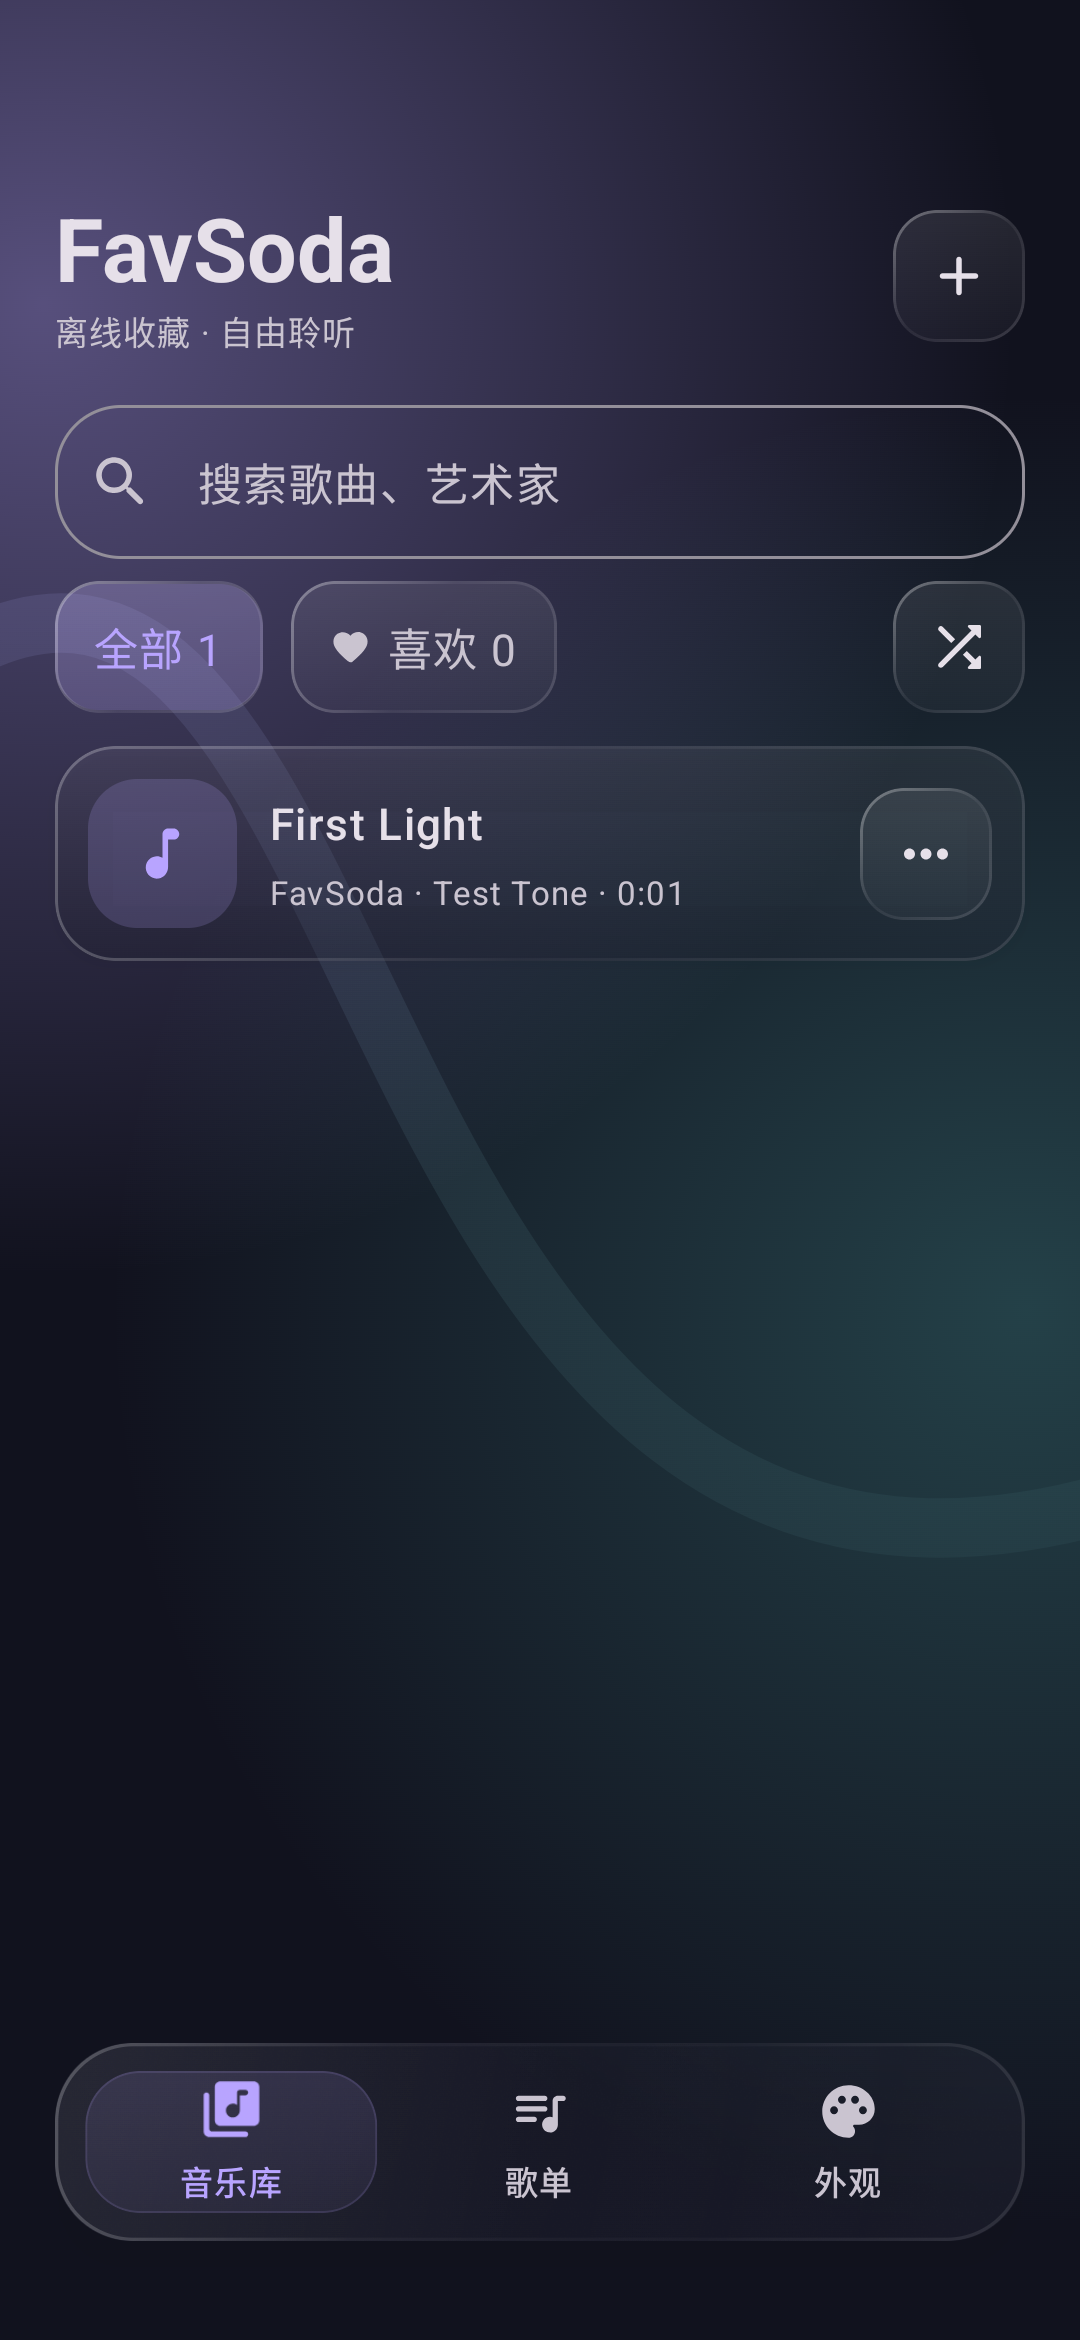
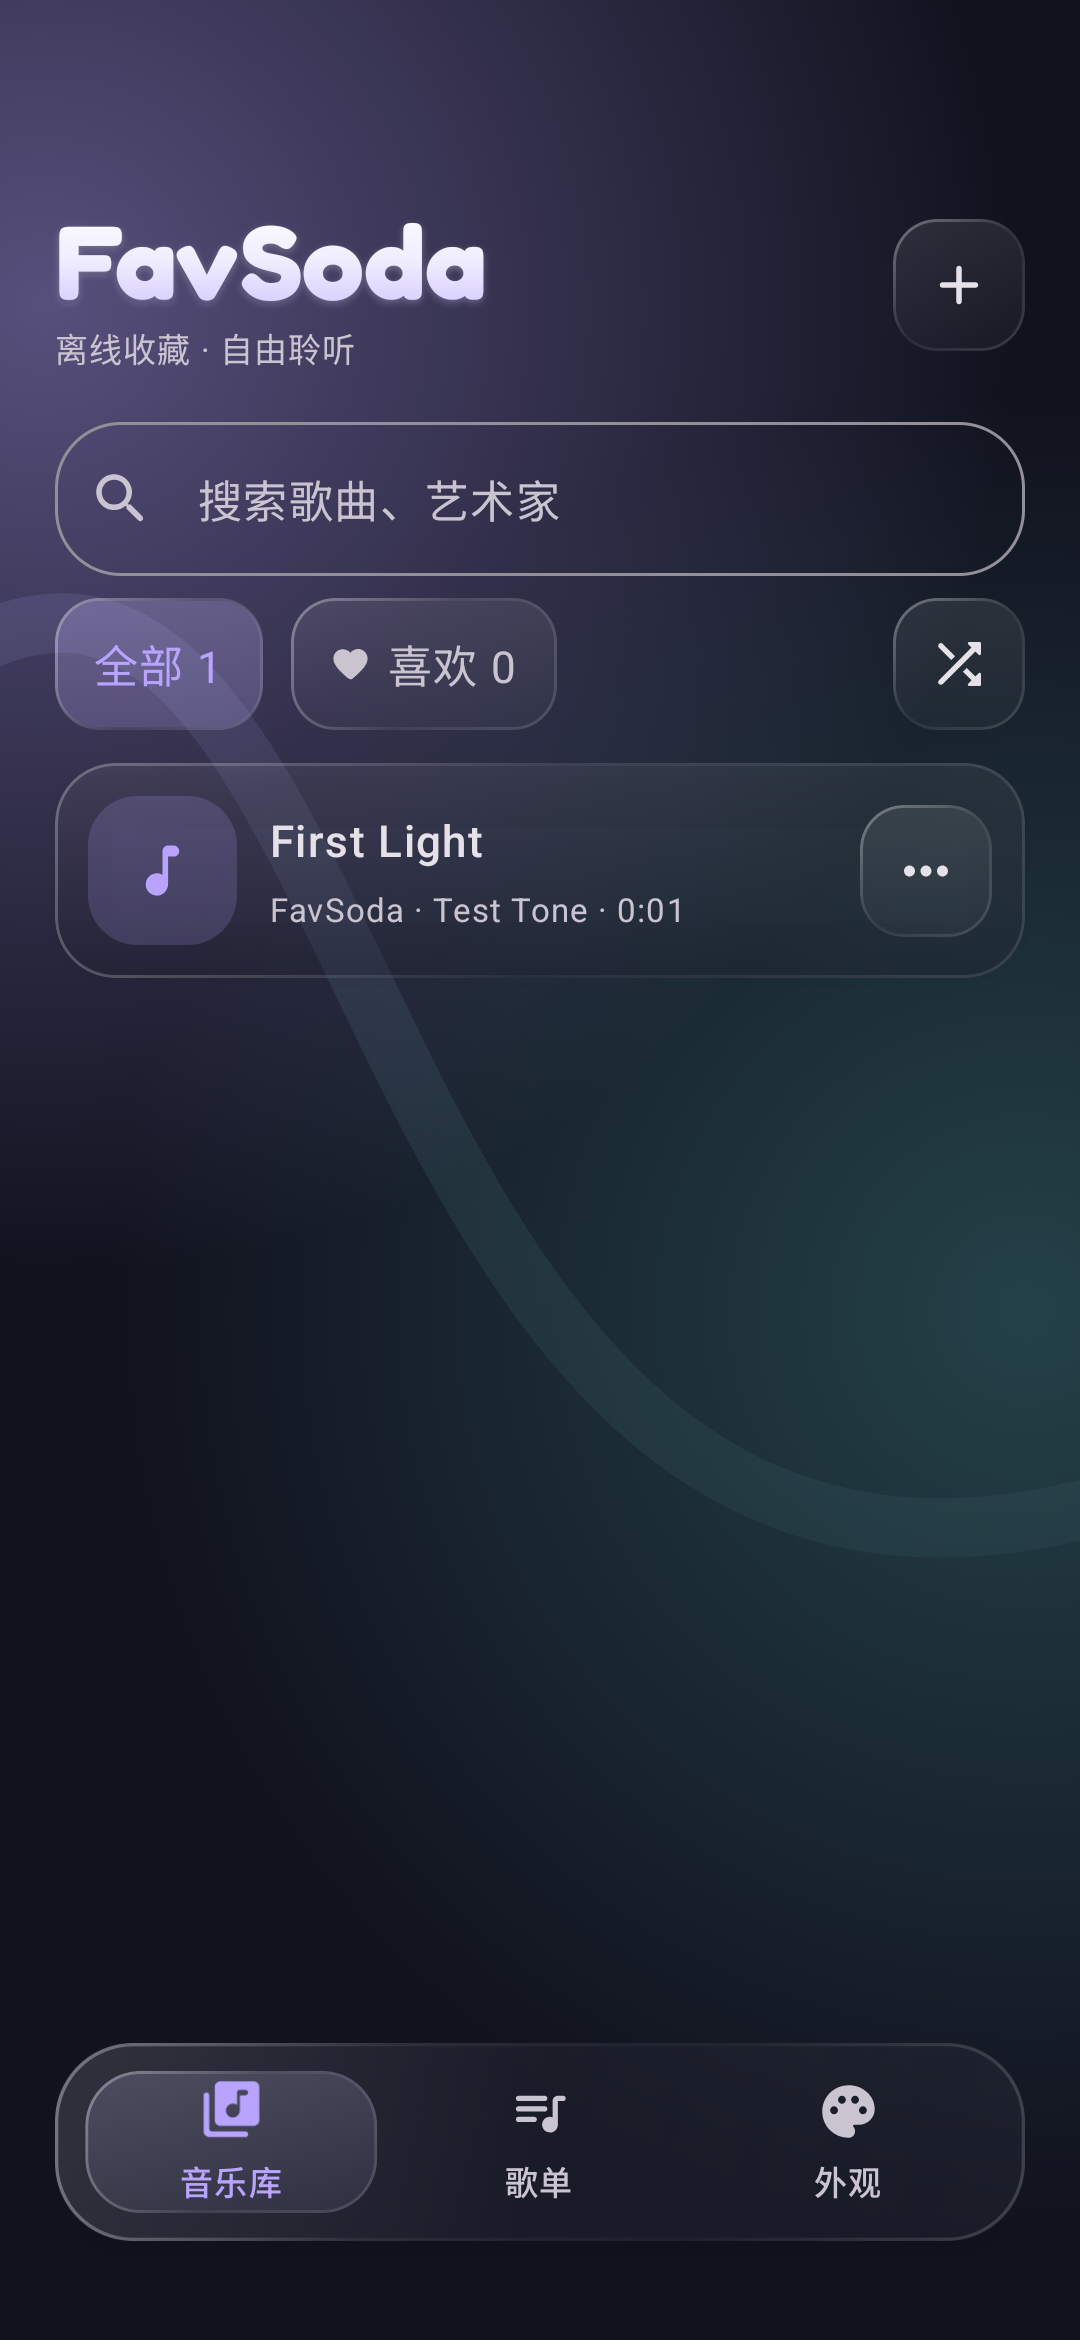
docs: publish bubble wordmark and balanced glass verification [skip ci]

diff --git a/docs/GLASS.md b/docs/GLASS.md
@@ -25,3 +25,10 @@
 ## 1.0.7 导航收敛
 
 底部导航单独使用轻材质参数：减弱投影、边缘与面反光，去除宽倒角和内层玻璃透镜，保留 Haze 背景层；选中区域改为浅强调色渐变。其他页面的玻璃层次保持原方案。导航高度为 72dp，按压时选中背景约扩张 5%，图标放大到 1.18 倍，弹簧阻尼提高以减少过冲。
+
+
+## 1.0.9 字标与材质统一
+
+导航选中底座改为直接调用 `controlSkin(selectedShape)`，与添加、更多、文字操作等按钮共用渐变与斜向高光边。轻材质外框适度加强面反射和浅投影，保留 72dp 高度及轻柔按压。
+
+左上角 `BrandWordmark` 使用内置静态 FavSoda Bubble 字体（派生自 Fredoka，Bold 700 / width 104，Basic Latin 子集）。字标用前景渐变、轻微下移的厚度层与柔和阴影静态绘制，不执行持续动画；装饰层清除语义，只保留一个可访问的品牌标题。深浅主题分别使用可读的字面颜色，正文和歌曲继续使用原有字体设置。字体完整许可证随 APK 的 assets 和源码分发。

diff --git a/docs/TESTING.md b/docs/TESTING.md
@@ -112,3 +112,12 @@
 - Android 10 / Android 15 各 20 项设备测试通过：[CI](https://github.com/winner798/GlassBeat/actions/runs/42022000463)。
 - 浅色底板的圆形和圆角方形预览已实际渲染并检查；前景安全区与主题单色图标检查通过。
 - APK 1.0.8 / versionCode 18，保留 1.0.7 的导航与同签名覆盖升级兼容性。
+
+
+## 1.0.9 底部材质与气泡字标验证
+
+- 26 项 JVM 测试、Debug/Release 静态检查及签名构建通过。
+- Android 10 / Android 15 各 20 项设备测试通过：[CI](https://github.com/winner798/GlassBeat/actions/runs/42024859723)。
+- 原有主界面检查继续验证品牌标题唯一可见、导航选择及取消、字体资源实际加载和完整播放交互。
+- 已核对两套设备的字标与底部导航截图，实际音乐库截图已更新到 README。
+- APK 1.0.9 / versionCode 19，继续支持原包名、原签名的覆盖升级。

diff --git a/README.md b/README.md
@@ -4,7 +4,7 @@
 
 开源、离线优先、可自定义的 Android 玻璃风格音乐播放器。
 
-1.0.8：图标采用珍珠白到淡蓝的浅色底板，保留水蓝/淡紫玻璃音符；底部导航使用更轻的滑动高亮，支持自适应图标裁切和主题单色版本。[图标资源](docs/ICON.md) · [玻璃实现](docs/GLASS.md)。
+1.0.9：左上角使用有渐变高光与柔和厚度的气泡字标；底部选中区域复用其他按钮的玻璃底座，适度加强高光与浅阴影。[图标资源](docs/ICON.md) · [玻璃实现](docs/GLASS.md)。
 
 <p>
   <img src="docs/screenshots/icon-rounded-square.png" width="80" alt="圆角方形图标预览" />
